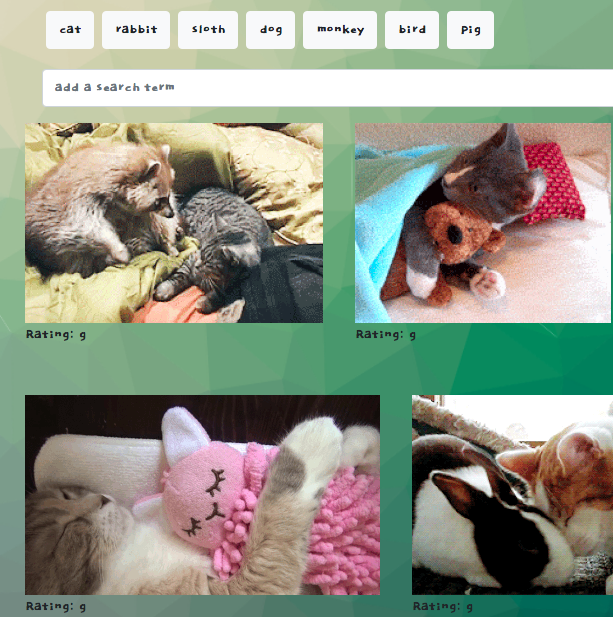
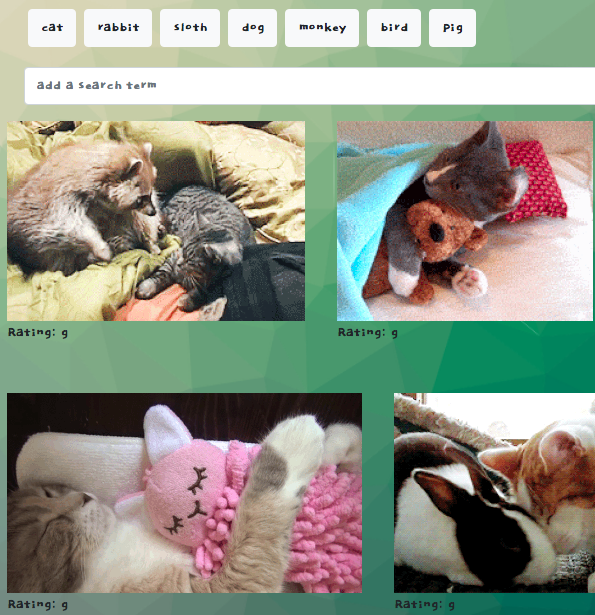
Finally got the menu bar working! Huzzah! I also added links for Github and linked in to the menu bar and modified the portfolio layout.

diff --git a/portfolio.html b/portfolio.html
@@ -7,34 +7,46 @@
     <meta name="viewport" content="width=device-width, initial-scale=1, shrink-to-fit=no">
 
     <!-- Bootstrap CSS -->
-    <link rel="stylesheet" href="https://stackpath.bootstrapcdn.com/bootstrap/4.1.2/css/bootstrap.min.css" integrity="sha384-Smlep5jCw/wG7hdkwQ/Z5nLIefveQRIY9nfy6xoR1uRYBtpZgI6339F5dgvm/e9B" crossorigin="anonymous">    
-    <link href="https://fonts.googleapis.com/css?family=Berkshire+Swash|Clicker+Script|Rochester|Short+Stack|Spirax" rel="stylesheet">
+    <link rel="stylesheet" href="https://stackpath.bootstrapcdn.com/bootstrap/4.1.3/css/bootstrap.min.css" integrity="sha384-MCw98/SFnGE8fJT3GXwEOngsV7Zt27NXFoaoApmYm81iuXoPkFOJwJ8ERdknLPMO" crossorigin="anonymous">  
+    <!-- Fonts -->
+    <link href="https://fonts.googleapis.com/css?family=Berkshire+Swash|Short+Stack|Spirax" rel="stylesheet">
+    <!-- My CSS -->
     <link rel="stylesheet" href="assets/css/style.css">
   </head>
   <body>
         <nav class="navbar navbar-expand-lg navbar-light bg-lavendar p-0 justify-content-center">
-            <div class="col-md-10">
+            <div class="col-lg-10">
                 <div class="row">
-                    <a class="navbar-brand col-12 col-sm-6 col-md-4 bg-turquoise text-white text-center" href="index.html">Theresa Benkman</a>
-                    <!-- <button class="navbar-toggler" type="button" data-toggle="collapse" data-target="#navbarNavAltMarkup" aria-controls="navbarNavAltMarkup" aria-expanded="false" aria-label="Toggle navigation">
+                    <a class="navbar-brand col-9 col-sm-6 col-lg-4 bg-turquoise text-white text-center" href="index.html">Theresa Benkman</a>
+                    <button class="navbar-toggler ml-auto border-0" type="button" data-toggle="collapse" data-target="#navbarToggler" aria-controls="navbarNavAltMarkup" aria-expanded="false" aria-label="Toggle navigation">
                         <span class="navbar-toggler-icon"></span>
-                    </button> -->
-                    <div class="collapse navbar-collapse d-flex justify-content-end" id="navbarNavAltMarkup">
-                        <div class="navbar-nav">
-                            <a class="nav-item nav-link" href="index.html">About</a>
-                            <a class="nav-item nav-link active" href="portfolio.html">Portfolio<span class="sr-only">(current)</span></a>
-                        </div>
+                    </button>
+                    <div class="collapse navbar-collapse" id="navbarToggler">
+                        <ul class="navbar-nav ml-auto mt-2 mt-lg-0 text-right pr-4 pr-lg-0">
+                            <li class="nav-item">
+                                <a class="nav-link" href="index.html">About</a>
+                            </li>
+                            <li class="nav-item active">
+                                <a class="nav-link" href="portfolio.html">Portfolio<span class="sr-only">(current)</span></a>
+                            </li>
+                            <li class="nav-item">
+                                <a class="nav-link" href="https://www.linkedin.com/in/theresa-benkman/" target="_blank">LinkedIn</a>
+                            </li>
+                            <li class="nav-item">
+                                <a class="nav-link" href="https://github.com/konatess" target="_blank">Github</a>
+                            </li>
+                        </ul>
                     </div>
                 </div>
             </div>
         </nav>
-        <div class="container col-12 col-md-10 py-2 my-3">
-            <div class="card border-light bg-transparent">
+        <div class="container rounded col-12 col-lg-10 py-2 my-3">
+            <div class="card border-white bg-transparent">
                 <h3 class="card-header bg-transparent">Portfolio</h3>
                 <div class="card-body bg-transparent">
                     <h4 class="card-title">Favorites:</h4>
                     <div class="row">
-                        <div class="col-12 col-sm-6 col-md-4">
+                        <div class="col-12 col-sm-6 col-lg-4">
                             <div class="card gallery mb-4">
                                 <a target="_blank" href="https://konatess.github.io/Attack_RPG/">
                                     <img class="card-img" src="assets/images/AttackRPG.png" alt="Monster Attack RPG">
@@ -44,7 +56,7 @@
                                 </div>
                             </div>
                         </div>
-                        <div class="col-12 col-sm-6 col-md-4">
+                        <div class="col-12 col-sm-6 col-lg-4">
                             <div class="card gallery mb-4">
                                 <a target="_blank" href="https://konatess.github.io/RPSSL/">
                                     <img class="card-img" src="assets/images/RPSSL.png" alt="Rock Paper Scissors Spock Lizard">
@@ -54,20 +66,20 @@
                                 </div>
                             </div>
                         </div>
-                        <div class="col-12 col-sm-6 col-md-4">
+                        <div class="col-12 col-sm-6 col-lg-4">
                             <div class="card gallery mb-4">
-                                <a target="_blank" href="https://konatess.github.io/RPSSL/">
-                                    <img class="card-img" src="assets/images/RPS Generator.png" alt="Rock Paper Scissors Game Generator">
+                                <a target="_blank" href="https://kmtenhouse.github.io/projectfun/">
+                                    <img class="card-img" src="assets/images/RPS-Generator.png" alt="Rock Paper Scissors Game Generator">
                                 </a>
                                 <div class="card-img-overlay caption p-0">
-                                    <h5 class="card-title bg-turquoise p-2 text-center text-white">Rock Paper Scissors Generator</h5>
+                                    <h5 class="card-title bg-turquoise p-2 text-center text-white">RPS Game Generator</h5>
                                 </div>
                             </div>
                         </div>
                     </div>
                     <h4 class="card-title pt-4">Others:</h4>
                     <div class="row">
-                        <div class="col-12 col-sm-6 col-md-4">
+                        <div class="col-12 col-sm-6 col-lg-4">
                             <div class="card gallery mb-4">
                                 <a target="_blank" href="https://konatess.github.io/Hangman_Game/">
                                     <img class="card-img" src="assets/images/HangmanGame.png" alt="Hangman Game">
@@ -77,7 +89,7 @@
                                 </div>
                             </div>
                         </div>
-                        <div class="col-12 col-sm-6 col-md-4">
+                        <div class="col-12 col-sm-6 col-lg-4">
                             <div class="card gallery mb-4">
                                 <a target="_blank" href="https://konatess.github.io/Crystal_Collector_Game/">
                                     <img class="card-img" src="assets/images/Bugs3.png" alt="Entomologist's Collection Game">
@@ -87,17 +99,17 @@
                                 </div>
                             </div>
                         </div>
-                        <div class="col-12 col-sm-6 col-md-4">
+                        <div class="col-12 col-sm-6 col-lg-4">
                             <div class="card gallery mb-4">
                                 <a target="_blank" href="https://konatess.github.io/TriviaGame/">
                                     <img class="card-img" src="assets/images/MuscleTrivia.png" alt="Skeletal Muscle Trivia Game">
                                 </a>
                                 <div class="card-img-overlay caption p-0">
-                                    <h5 class="card-title bg-turquoise p-2 text-center text-white">Skeletal Muscle Trivia Game</h5>
+                                    <h5 class="card-title bg-turquoise p-2 text-center text-white">Muscle Trivia Game</h5>
                                 </div>
                             </div>
                         </div>
-                        <div class="col-12 col-sm-6 col-md-4">
+                        <div class="col-12 col-sm-6 col-lg-4">
                             <div class="card gallery mb-4">
                                 <a target="_blank" href="https://konatess.github.io/SnugglyGifs/">
                                     <img class="card-img" src="assets/images/Snuggly_Gifs.png" alt="Snuggly Gifs">
@@ -107,6 +119,16 @@
                                 </div>
                             </div>
                         </div>
+                        <div class="col-12 col-sm-6 col-lg-4">
+                                <div class="card gallery mb-4">
+                                    <a target="_blank" href="https://github.com/konatess/liri-node-app/tree/master">
+                                        <img class="card-img" src="assets/images/liri.png" alt="LIRI project">
+                                    </a>
+                                    <div class="card-img-overlay caption p-0">
+                                        <h5 class="card-title bg-turquoise p-2 text-center text-white">LIRI Node App</h5>
+                                    </div>
+                                </div>
+                            </div>
                     </div>
                 </div>
             </div>
@@ -119,6 +141,6 @@
     <!-- jQuery first, then Popper.js, then Bootstrap JS -->
     <script src="https://code.jquery.com/jquery-3.3.1.slim.min.js" integrity="sha384-q8i/X+965DzO0rT7abK41JStQIAqVgRVzpbzo5smXKp4YfRvH+8abtTE1Pi6jizo" crossorigin="anonymous"></script>
     <script src="https://cdnjs.cloudflare.com/ajax/libs/popper.js/1.14.3/umd/popper.min.js" integrity="sha384-ZMP7rVo3mIykV+2+9J3UJ46jBk0WLaUAdn689aCwoqbBJiSnjAK/l8WvCWPIPm49" crossorigin="anonymous"></script>
-    <script src="https://stackpath.bootstrapcdn.com/bootstrap/4.1.2/js/bootstrap.min.js" integrity="sha384-o+RDsa0aLu++PJvFqy8fFScvbHFLtbvScb8AjopnFD+iEQ7wo/CG0xlczd+2O/em" crossorigin="anonymous"></script>
+    <script src="https://stackpath.bootstrapcdn.com/bootstrap/4.1.3/js/bootstrap.min.js" integrity="sha384-ChfqqxuZUCnJSK3+MXmPNIyE6ZbWh2IMqE241rYiqJxyMiZ6OW/JmZQ5stwEULTy" crossorigin="anonymous"></script>
   </body>
 </html>

diff --git a/index.html b/index.html
@@ -7,29 +7,41 @@
     <meta name="viewport" content="width=device-width, initial-scale=1, shrink-to-fit=no">
 
     <!-- Bootstrap CSS -->
-    <link rel="stylesheet" href="https://stackpath.bootstrapcdn.com/bootstrap/4.1.2/css/bootstrap.min.css" integrity="sha384-Smlep5jCw/wG7hdkwQ/Z5nLIefveQRIY9nfy6xoR1uRYBtpZgI6339F5dgvm/e9B" crossorigin="anonymous">    
-    <link href="https://fonts.googleapis.com/css?family=Berkshire+Swash|Clicker+Script|Rochester|Short+Stack|Spirax" rel="stylesheet">
+    <link rel="stylesheet" href="https://stackpath.bootstrapcdn.com/bootstrap/4.1.3/css/bootstrap.min.css">    
+    <!-- Google Fonts -->
+    <link href="https://fonts.googleapis.com/css?family=Berkshire+Swash|Short+Stack|Spirax" rel="stylesheet">
+    <!-- My CSS -->
     <link rel="stylesheet" href="assets/css/style.css">
   </head>
   <body>
         <nav class="navbar navbar-expand-lg navbar-light bg-lavendar p-0 justify-content-center">
-            <div class="col-md-10">
+            <div class="col-lg-10">
                 <div class="row">
-                    <a class="navbar-brand col-12 col-sm-6 col-md-4 bg-turquoise text-white text-center" href="index.html">Theresa Benkman</a>
-                    <button class="navbar-toggler" type="button" data-toggle="collapse" data-target="#navbarNavAltMarkup" aria-controls="navbarNavAltMarkup" aria-expanded="false" aria-label="Toggle navigation">
+                    <a class="navbar-brand col-9 col-sm-6 col-lg-4 bg-turquoise text-white text-center" href="index.html">Theresa Benkman</a>
+                    <button class="navbar-toggler ml-auto border-0" type="button" data-toggle="collapse" data-target="#navbarToggler" aria-controls="navbarNavAltMarkup" aria-expanded="false" aria-label="Toggle navigation">
                         <span class="navbar-toggler-icon"></span>
                     </button>
-                    <div class="collapse navbar-collapse d-flex justify-content-end" id="navbarNavAltMarkup">
-                        <div class="navbar-nav">
-                            <a class="nav-item nav-link active" href="index.html">About <span class="sr-only">(current)</span></a>
-                            <a class="nav-item nav-link" href="portfolio.html">Portfolio</a>
-                        </div>
+                    <div class="collapse navbar-collapse" id="navbarToggler">
+                        <ul class="navbar-nav ml-auto mt-2 mt-lg-0 text-right pr-4 pr-lg-0">
+                            <li class="nav-item  active">
+                                <a class="nav-link" href="index.html">About<span class="sr-only">(current)</span></a>
+                            </li>
+                            <li class="nav-item">
+                                <a class="nav-link" href="portfolio.html">Portfolio</a>
+                            </li>
+                            <li class="nav-item">
+                                <a class="nav-link" href="https://www.linkedin.com/in/theresa-benkman/" target="_blank">LinkedIn</a>
+                            </li>
+                            <li class="nav-item">
+                                <a class="nav-link" href="https://github.com/konatess" target="_blank">Github</a>
+                            </li>
+                        </ul>
                     </div>
                 </div>
             </div>
         </nav>
-        <div class="container col-12 col-md-10 py-2 my-3">
-            <div class="card border-light bg-transparent">
+        <div class="container rounded col-12 col-lg-10 py-2 my-3">
+            <div class="card border-white bg-transparent">
                 <h3 class="card-header bg-transparent">About Me</h3>
                 <div class="card-body bg-transparent">
                     <img src="assets/images/Headshot.jpg" class="img-thumbnail float-left mr-4" alt="Headshot">
@@ -53,7 +65,7 @@
                     The short (and funnier) version of the story: My housemate and I were talking about her job at Microsoft, and she said, 
                     "You really liked the Symbolic Logic class at Soka, right?" When I answered in the affermative, she continued, 
                     "I have something you should read and see if you like it." A couple of days later, she handed me a textbook about 
-                    programming in C, and I was so excited about it, I applied to coding bootcamp two weeks later.
+                    programming in C which I enjoyed so much that I applied to coding bootcamp two weeks later.
                     </p>
                     <p class="card-text">
                     To see what I have accomplished at the University of Washington hosted Coding Bootcamp, click on Portfolio above.
@@ -69,10 +81,11 @@
                         <li>I was once featured in a 2 minute interview segment on a local TV show broadcast in Zhejiang, China</li>
                         <li>I have freelanced as a copy editor, and have a thank you credit in a published book</li>
                     </ul>
-                    <h4 class="card-title">Links and Contact Information:</h4>
-                    <a class="btn btn-light" href="https://www.linkedin.com/in/theresa-benkman/" target="_blank" role="button">LinkedIn</a> <br>
-                    <a class="btn btn-light" href="" target="_blank" role="button">Github</a>
-                    <p>konatess@gmail.com</p>
+                    <h4 class="card-title">Contact Information and Links:</h4>
+                    <p>konatess@gmail.com
+                        <a class="btn btn-light" href="https://www.linkedin.com/in/theresa-benkman/" target="_blank" role="button">LinkedIn</a>
+                        <a class="btn btn-light" href="https://github.com/konatess" target="_blank" role="button">Github</a>
+                    </p>
                 </div>
             </div>
         </div>
@@ -80,10 +93,10 @@
             &#169; Theresa Benkman
         </footer>
       
-    <!-- Optional JavaScript -->
+    <!-- Bootstrap JavaScript -->
     <!-- jQuery first, then Popper.js, then Bootstrap JS -->
     <script src="https://code.jquery.com/jquery-3.3.1.slim.min.js" integrity="sha384-q8i/X+965DzO0rT7abK41JStQIAqVgRVzpbzo5smXKp4YfRvH+8abtTE1Pi6jizo" crossorigin="anonymous"></script>
     <script src="https://cdnjs.cloudflare.com/ajax/libs/popper.js/1.14.3/umd/popper.min.js" integrity="sha384-ZMP7rVo3mIykV+2+9J3UJ46jBk0WLaUAdn689aCwoqbBJiSnjAK/l8WvCWPIPm49" crossorigin="anonymous"></script>
-    <script src="https://stackpath.bootstrapcdn.com/bootstrap/4.1.2/js/bootstrap.min.js" integrity="sha384-o+RDsa0aLu++PJvFqy8fFScvbHFLtbvScb8AjopnFD+iEQ7wo/CG0xlczd+2O/em" crossorigin="anonymous"></script>
+    <script src="https://stackpath.bootstrapcdn.com/bootstrap/4.1.3/js/bootstrap.min.js" integrity="sha384-ChfqqxuZUCnJSK3+MXmPNIyE6ZbWh2IMqE241rYiqJxyMiZ6OW/JmZQ5stwEULTy" crossorigin="anonymous"></script>
   </body>
 </html>

diff --git a/assets/css/style.css b/assets/css/style.css
@@ -8,37 +8,49 @@ a, p, li, footer, label, .form-control {
     font-family: 'Short Stack', cursive;
 }
 
-h1, h2, h3, h4, h5, h6 { color: #4aaaa5; }
+h1, h2, h3, h4, h5, h6 { color: #04a78e; }
 
-.nav-item, h1, h2, h3, h4, h5, h6 {
+.nav-link, h1, h2, h3, h4, h5, h6 {
     font-family: 'Berkshire Swash', cursive;
 }
 .navbar-brand {
     font-family: 'Spirax', cursive;
-    font-size: 2em;
+    font-size: 1.8em;
 }
 
 a { font-size: 1.2em; }
 
-.container { background-color: #ffffff8e; }
+.container { background-color: #ffffffcc; }
 
-.bg-turquoise { background-color: #109ba0; }
+.bg-turquoise { background-color: #04a78e; }
 
-.bg-lavendar { background-color: #d2b8fd98; }
+.bg-lavendar { background-color: #cca8f798; }
 
 .gallery {
-    width: 300px;
-    height: 300px;
+    /* this height and padding keeps the .gallery items square without disrupting their responsiveness */
+    height: 0;
+    padding-bottom: 100%;
     overflow: hidden;
+    border: solid 1px #04a78e;
+}
+
+.gallery:hover {
+    border: solid 4px #04a78e;
 }
 
 .card-img {
     object-fit: cover;
+    min-width: 100%;
+}
+
+.card-text {
+    /* keep text from breaking words, which is auto in bootstrap */
+    overflow-wrap: normal;
 }
 
 .caption {
     position: absolute;
-    top: 75%;
+    top: 70%;
     left: 0;
     width: 100%;
 }
